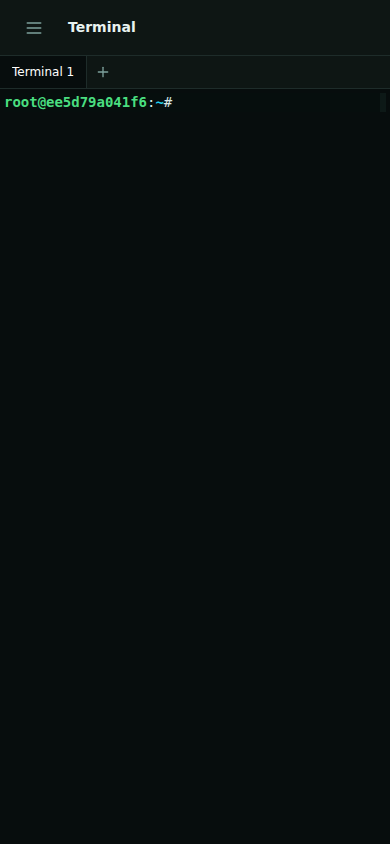
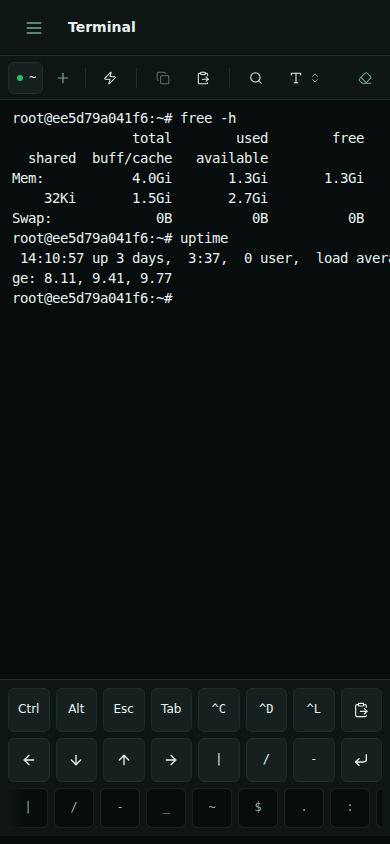
docs: update terminal section and screenshots

diff --git a/README.md b/README.md
@@ -101,10 +101,18 @@ pipe, `$`, backtick — plus undo and redo.
 
 ### Terminal
 
-Full PTY-backed terminal via `node-pty` and xterm.js, with multiple tabs, resize
-propagation and clickable links.
+Full PTY-backed terminal via `node-pty` and CodeMirror-era xterm.js, rebuilt for
+phones as well as desktops: multiple sessions, split panes, scrollback search,
+and a mobile key bar for the keys a virtual keyboard cannot produce.
 
 ![Terminal](docs/screenshots/Terminal.png)
+
+On mobile, sticky `Ctrl`/`Alt` modifiers apply to the phone's own keyboard as
+well as the bar's buttons, so `Ctrl`+`C` actually interrupts a running process.
+The bar tracks the visual viewport, so it stays above the on-screen keyboard
+instead of being pushed underneath it.
+
+![Terminal on mobile](docs/screenshots/Terminal-mobile.png)
 
 ### Processes
 
@@ -177,7 +185,18 @@ Every section is a first-class mobile view — no horizontal scrolling at 390 px
 <details open>
 <summary><strong>Terminal</strong></summary>
 
-- Real PTY sessions with multiple concurrent tabs
+- Real PTY sessions with multiple concurrent tabs and desktop split panes
+- Sessions spawn in the effective user's real home directory
+- Shell environment is isolated from the panel's own config, so `PASSWORD`,
+  `JWT_SECRET` and `PORT` never leak into a session
+- Mobile key bar: `Ctrl`, `Alt`, `Esc`, `Tab`, arrows, `^C`/`^D`/`^L` and shell
+  punctuation, on a 44px touch grid
+- Sticky modifiers shared with the device keyboard, so `Ctrl`+`C` works when the
+  letter is typed on the phone rather than tapped in the bar
+- Keyboard-aware layout via the VisualViewport API
+- Scrollback search, adjustable text size, quick-command palette
+- WebGL rendering with automatic canvas fallback
+- Live tab titles from the shell's own OSC title, plus reconnect/exit states
 - Automatic fit/resize propagation to the server
 - Web-link detection
 
